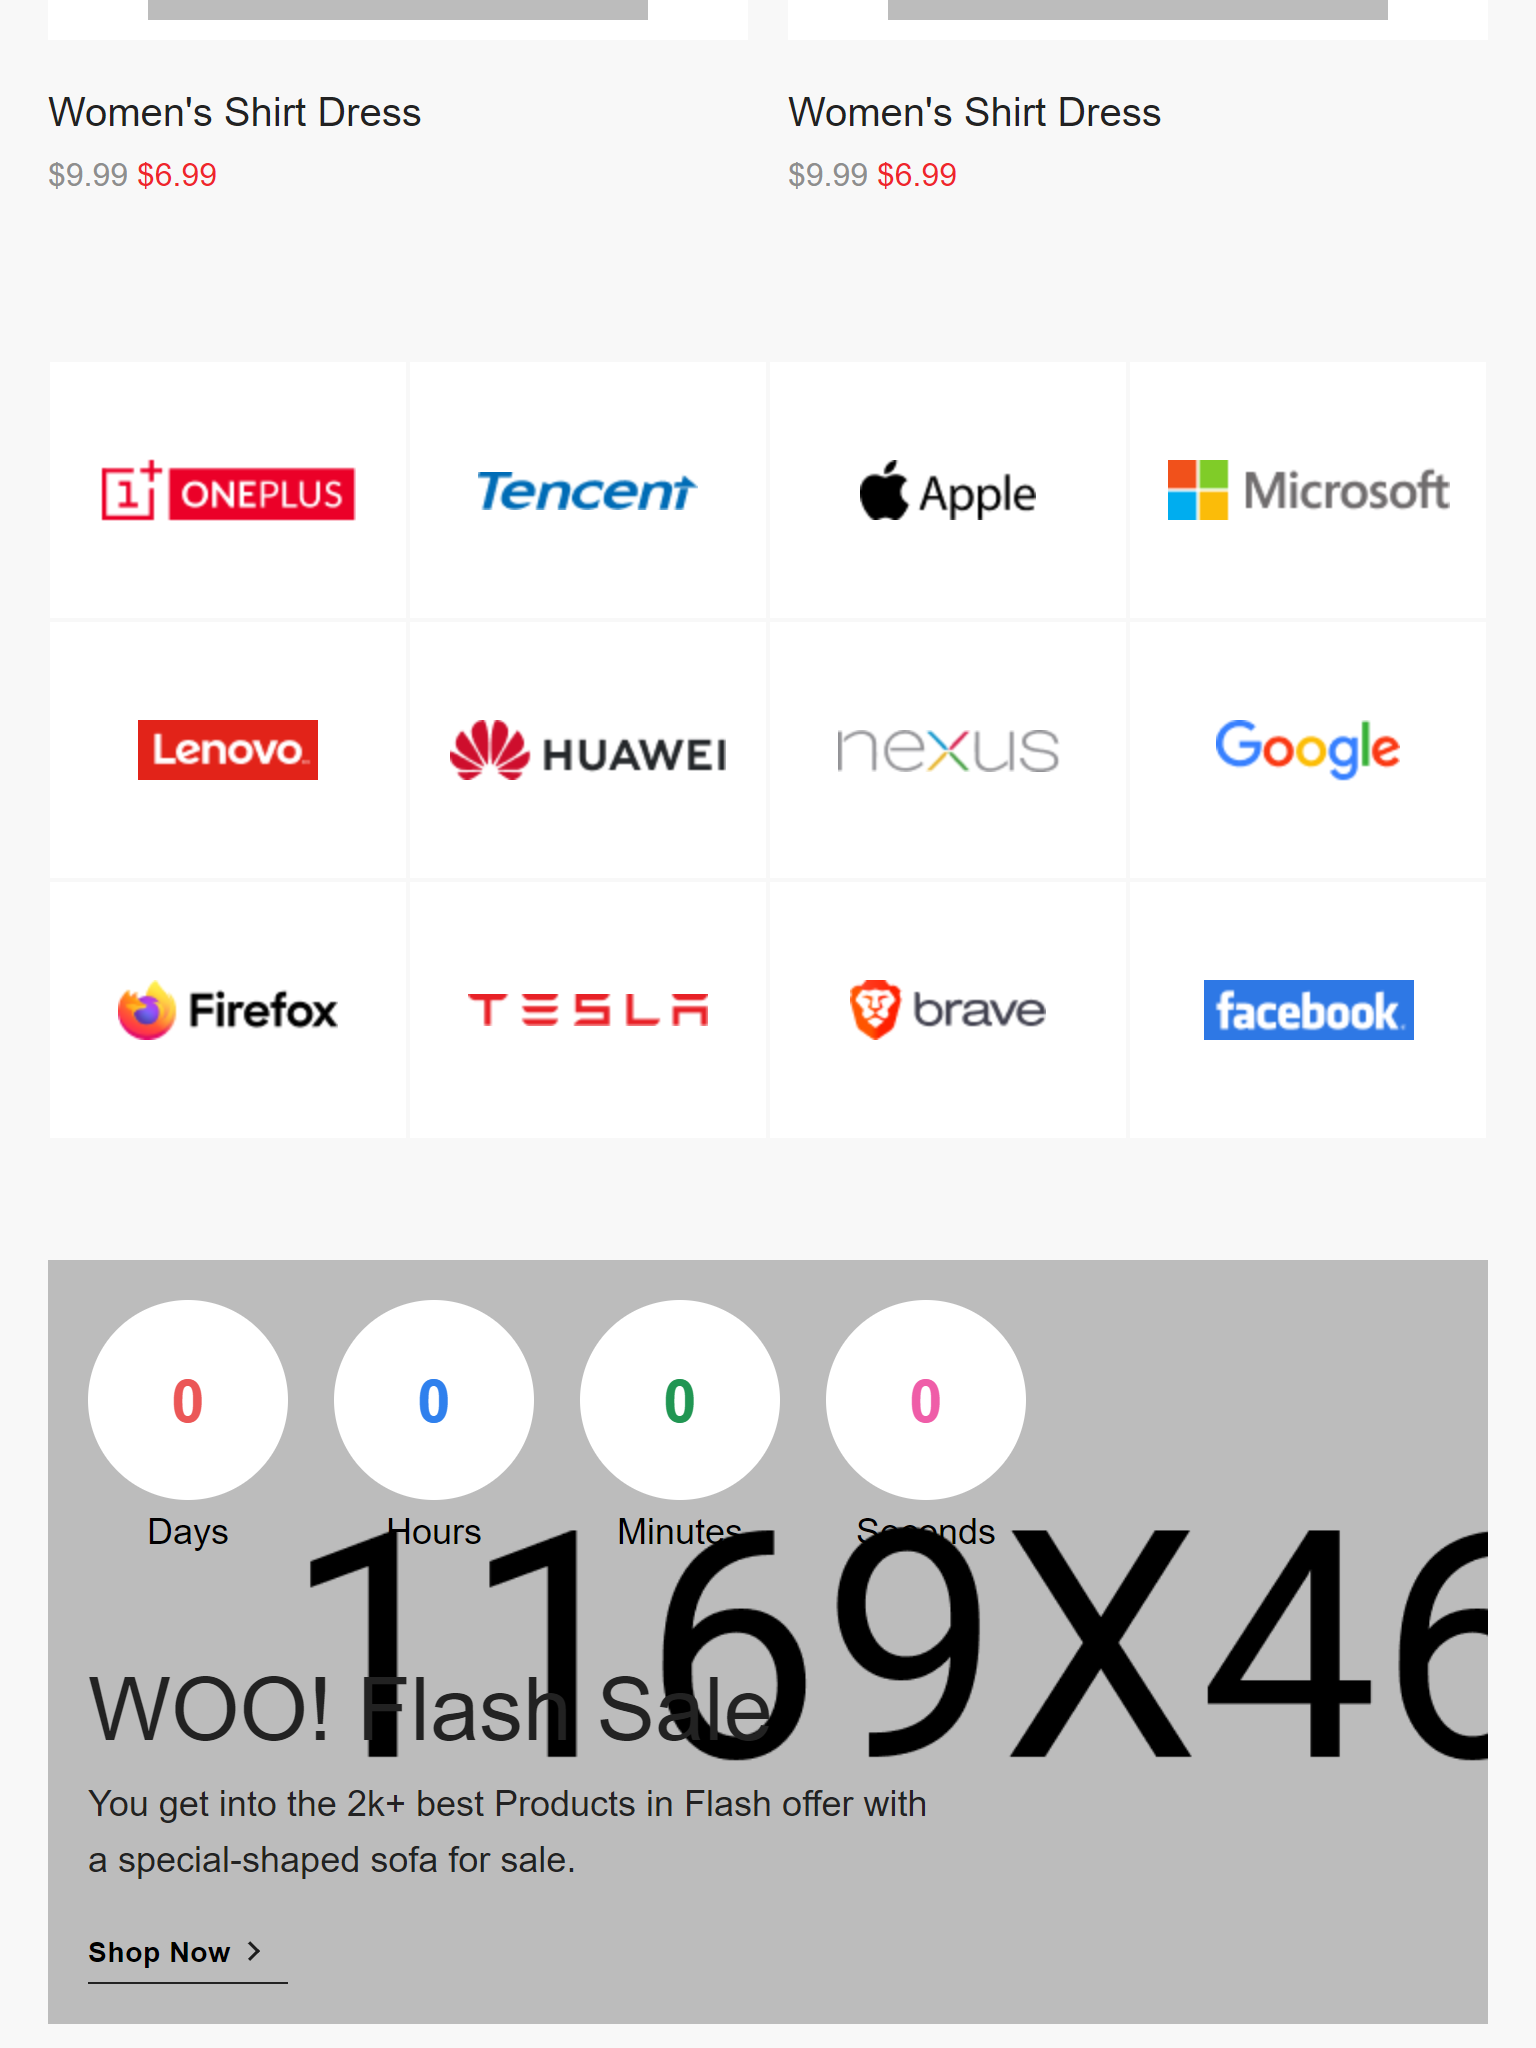
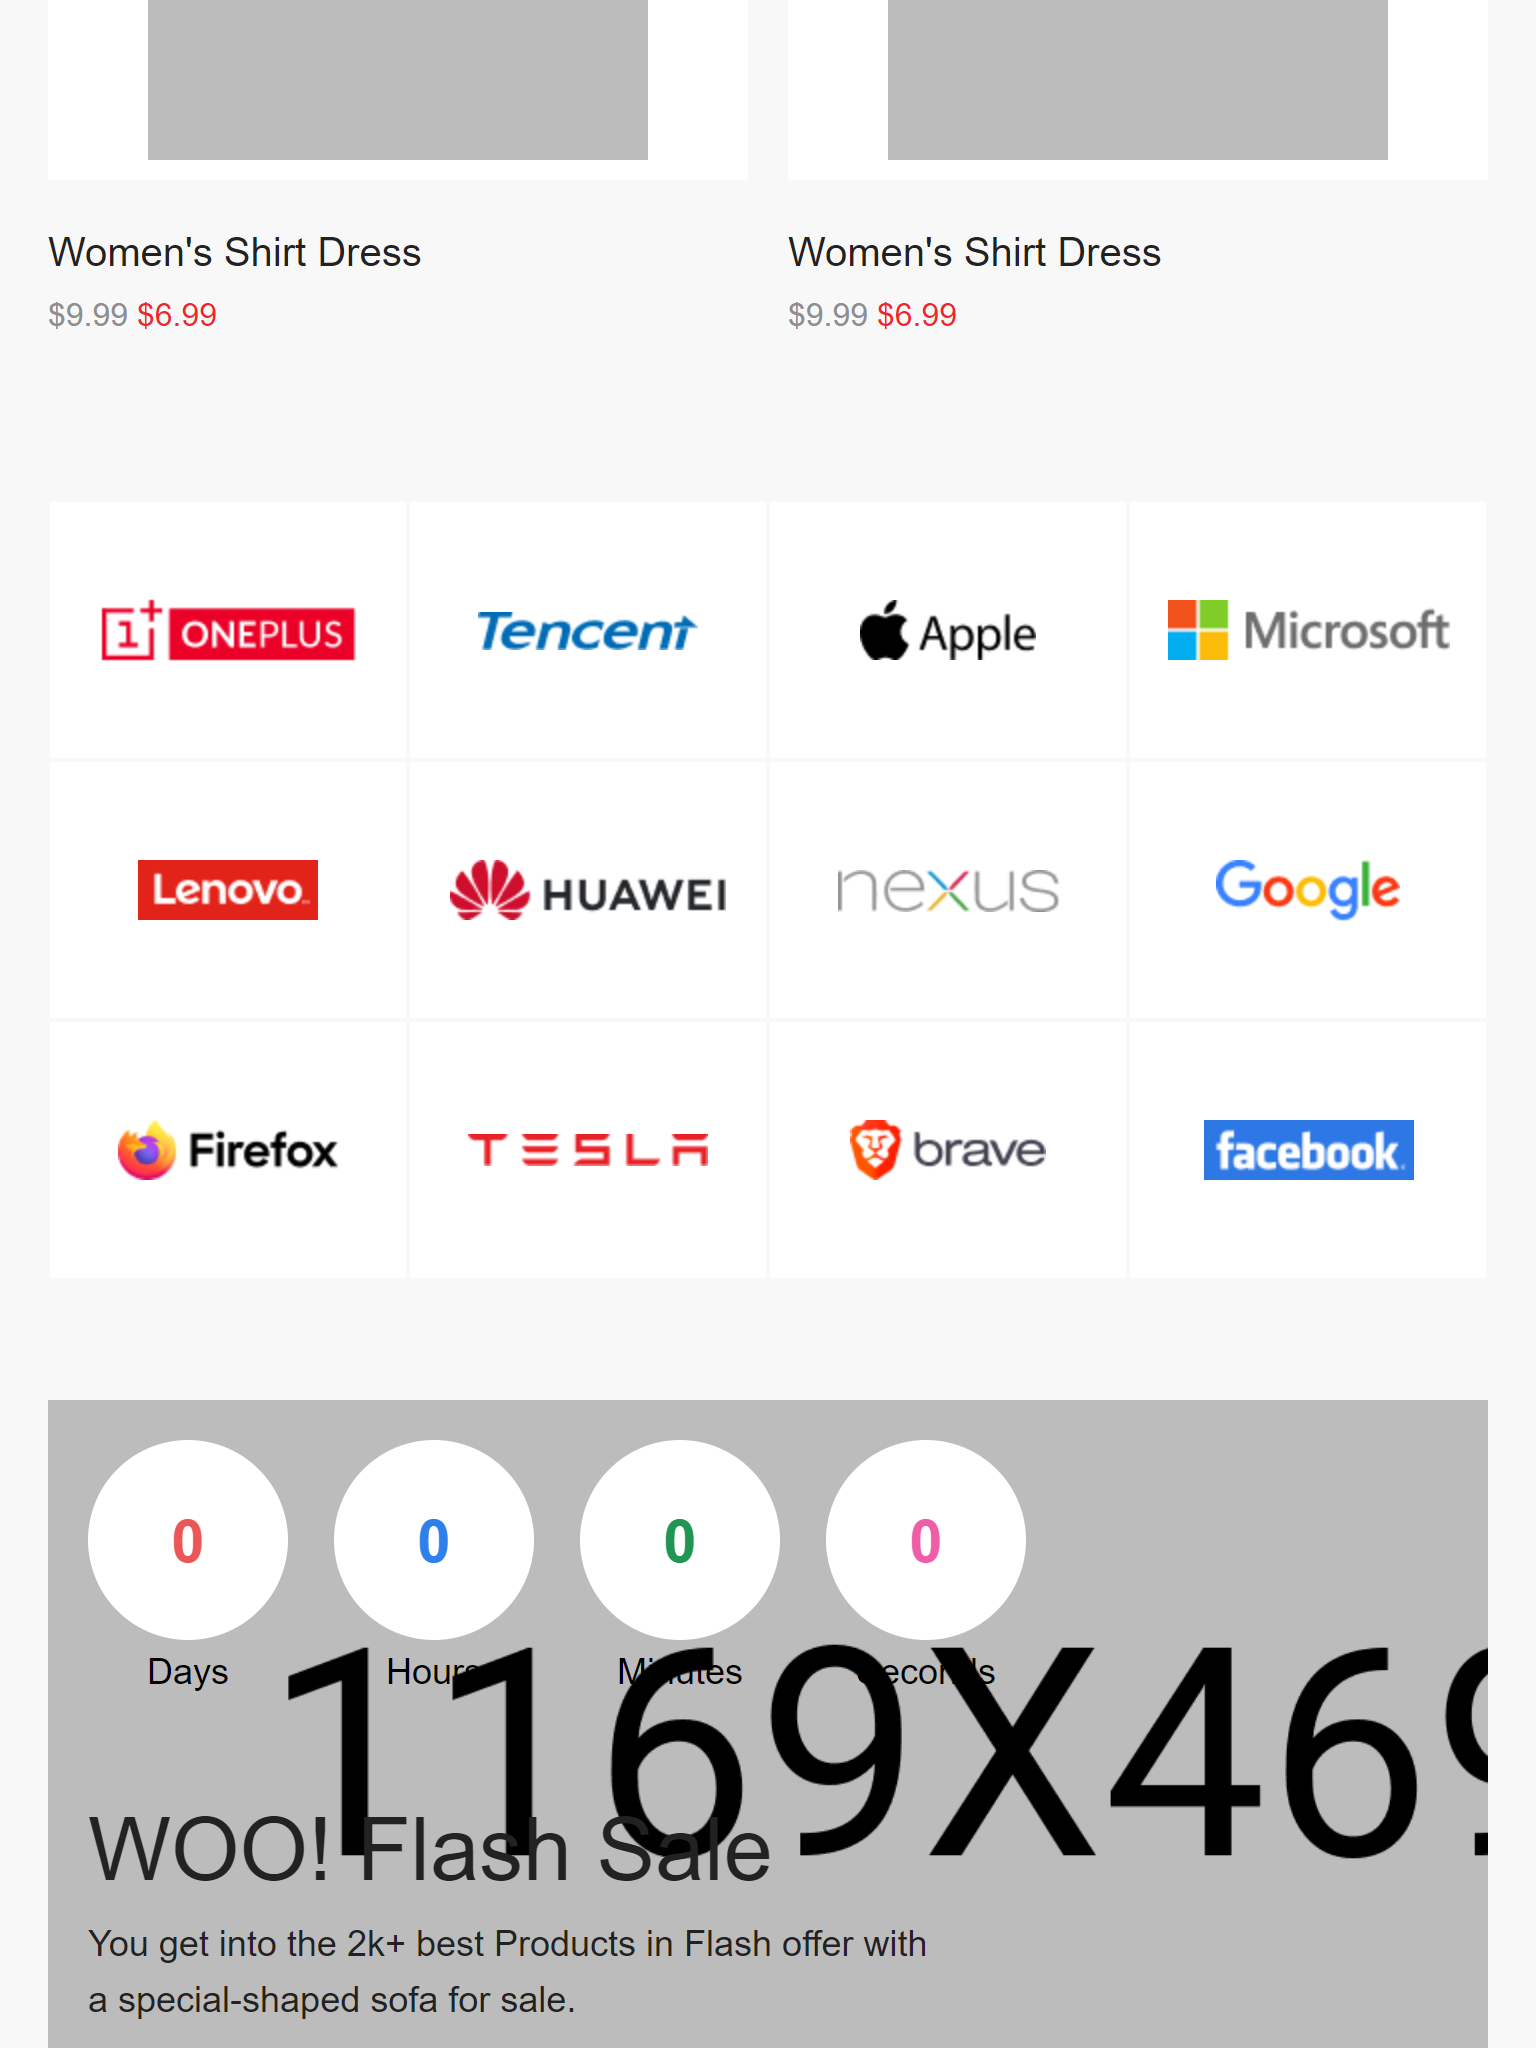
Update

diff --git a/src/components/Home/CampaignCountDown.jsx b/src/components/Home/CampaignCountDown.jsx
@@ -71,39 +71,6 @@ export default function CampaignCountDown({ className, lastDate }) {
                       <br /> a special-shaped sofa for sale.
                     </p>
                   </div>
-                  <div className=" w-[100px] h-8 border-b border-qblack">
-                    <div className=" h-full inline-flex space-x-2  items-center">
-                      <span className="text-sm font-600 tracking-wide leading-7">
-                        Shop Now
-                      </span>
-                      <span>
-                        <svg
-                          width="7"
-                          height="11"
-                          viewBox="0 0 7 11"
-                          fill="none"
-                          xmlns="http://www.w3.org/2000/svg"
-                        >
-                          <rect
-                            x="2.08984"
-                            y="0.636719"
-                            width="6.94219"
-                            height="1.54271"
-                            transform="rotate(45 2.08984 0.636719)"
-                            fill="#1D1D1D"
-                          />
-                          <rect
-                            x="7"
-                            y="5.54492"
-                            width="6.94219"
-                            height="1.54271"
-                            transform="rotate(135 7 5.54492)"
-                            fill="#1D1D1D"
-                          />
-                        </svg>
-                      </span>
-                    </div>
-                  </div>
                 </div>
               </a>
             </div>
